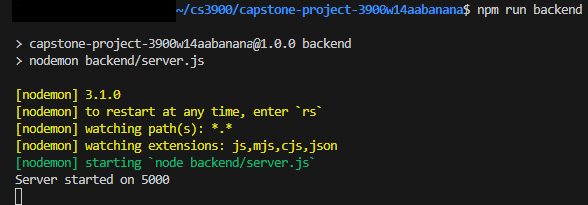
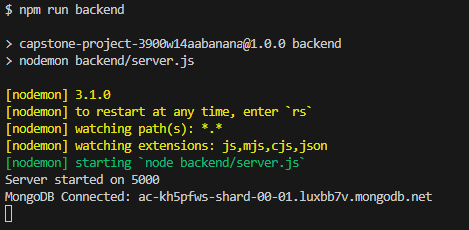
connected system to database, adjusted README for setup with database

diff --git a/backend/config/db.js b/backend/config/db.js
@@ -1,0 +1,13 @@
+import mongoose from 'mongoose';
+
+const connectDB = async () => {
+  try {
+    const conn = await mongoose.connect(process.env.MONGO_URI);
+    console.log(`MongoDB Connected: ${conn.connection.host}`);
+  } catch (error) {
+    console.error(`Error: ${error.message}`);
+    process.exit(1);
+  }
+};
+
+export default connectDB;

diff --git a/backend/server.js b/backend/server.js
@@ -1,10 +1,13 @@
 import express from 'express';
 import dotenv from 'dotenv';
 import cors from "cors";
+import connectDB from './config/db.js';
 
 // basic setup
 dotenv.config();
 const port = process.env.PORT || 5000;
+
+connectDB();
 
 const app = express();
 app.use(cors());
